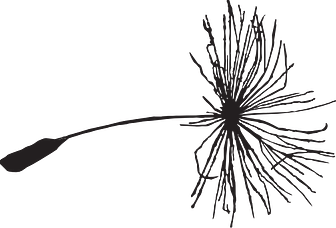
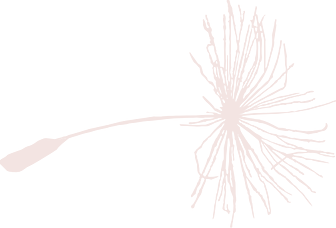
Added dandelions

Changed region(s): [[0.0, 0.0, 1.0, 1.0], [0.5952, 0.4298, 0.625, 0.4605]]

diff --git a/components/HowWeWork/index.tsx b/components/HowWeWork/index.tsx
@@ -2,12 +2,17 @@ import React from 'react'
 import PageCard from '../PageCard'
 import SectionHeader from '../SectionHeader'
 import styles from './styles.module.scss'
+import Image from 'next/image'
 
 export default function HowWeWork() {
   return (
     <section className={styles.HowWeWorkContainer}>
       <SectionHeader headertext="Így dolgozunk"/>
       <div className={styles.HowWeWorkCardsContainer}>
+        <Image className={styles.dandelions_vibe} src={"/dandelions_vibe.png"} alt="Vibe" width={229} height={334}/>
+        <Image className={styles.dandelions_tervezes} src={"/dandelions_tervezes.png"} alt="Tervezés" width={336} height={228}/>
+        <Image className={styles.dandelions_veglegesites} src={"/dandelions_veglegesites.png"} alt="Véglegesítés" width={343} height={555}/>
+        <Image className={styles.dandelions_anagynap} src={"/dandelions_anagynap.png"} alt="A Nagy Nap" width={336} height={339}/>
         <PageCard type="howwework" title="Vibe" links={[""]} bodytext={"Lorem ipsum dolor sit amet consectetur, adipisicing elit. Delectus dicta perspiciatis ipsam possimus harum. Quos, provident inventore facilis eaque hic perferendis necessitatibus accusamus perspiciatis nemo, ipsam asperiores beatae omnis dolore."}/>
         <PageCard type="howwework" title="Tervezés" links={[""]} bodytext={"Lorem ipsum dolor sit amet consectetur, adipisicing elit. Delectus dicta perspiciatis ipsam possimus harum. Quos, provident inventore facilis eaque hic perferendis necessitatibus accusamus perspiciatis nemo, ipsam asperiores beatae omnis dolore."}/>
         <PageCard type="howwework" title="Véglegesítés" links={[""]} bodytext={"Lorem ipsum dolor sit amet consectetur, adipisicing elit. Delectus dicta perspiciatis ipsam possimus harum. Quos, provident inventore facilis eaque hic perferendis necessitatibus accusamus perspiciatis nemo, ipsam asperiores beatae omnis dolore."}/>

diff --git a/components/HowWeWork/styles.module.scss b/components/HowWeWork/styles.module.scss
@@ -26,4 +26,36 @@
     gap: 4rem;
     margin-top: 2rem;
     margin-bottom: 2rem;
+    position: relative;
+
+    .dandelions_vibe,
+    .dandelions_tervezes,
+    .dandelions_veglegesites,
+    .dandelions_anagynap {
+        position: absolute;
+        height: auto;
+        max-width: 5rem;
+    }
+
+    .dandelions_vibe {
+        top: -2rem;
+        left: 17rem;
+        max-width: 3.5rem;
+    }
+
+    .dandelions_tervezes {
+        left: 26rem;
+        bottom: 18rem;
+    }
+
+    .dandelions_veglegesites {
+        right: 29rem;
+        bottom: 14rem;
+    }
+
+    .dandelions_anagynap {
+        bottom: 16rem;
+        right: 10rem;
+    }
+
 }
